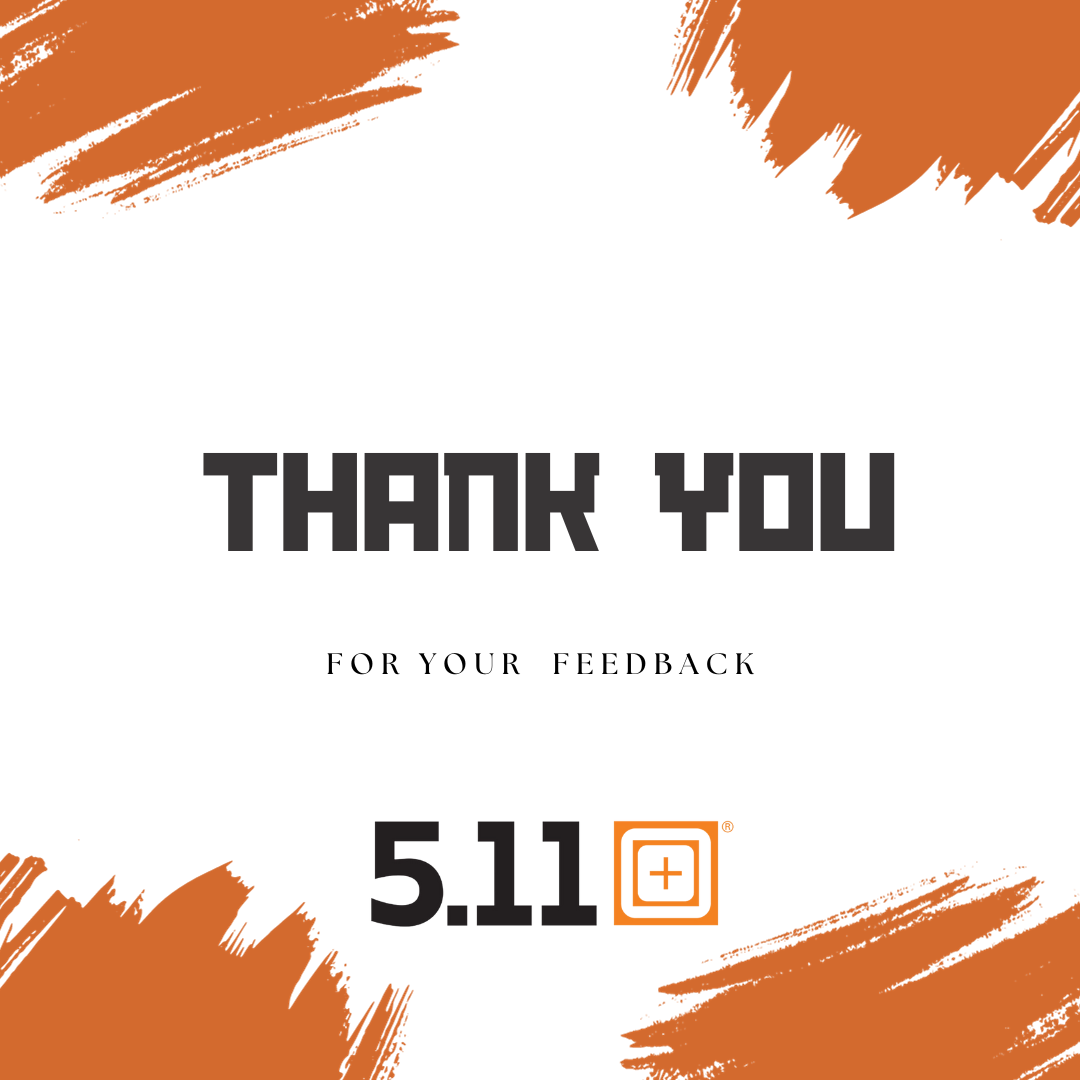
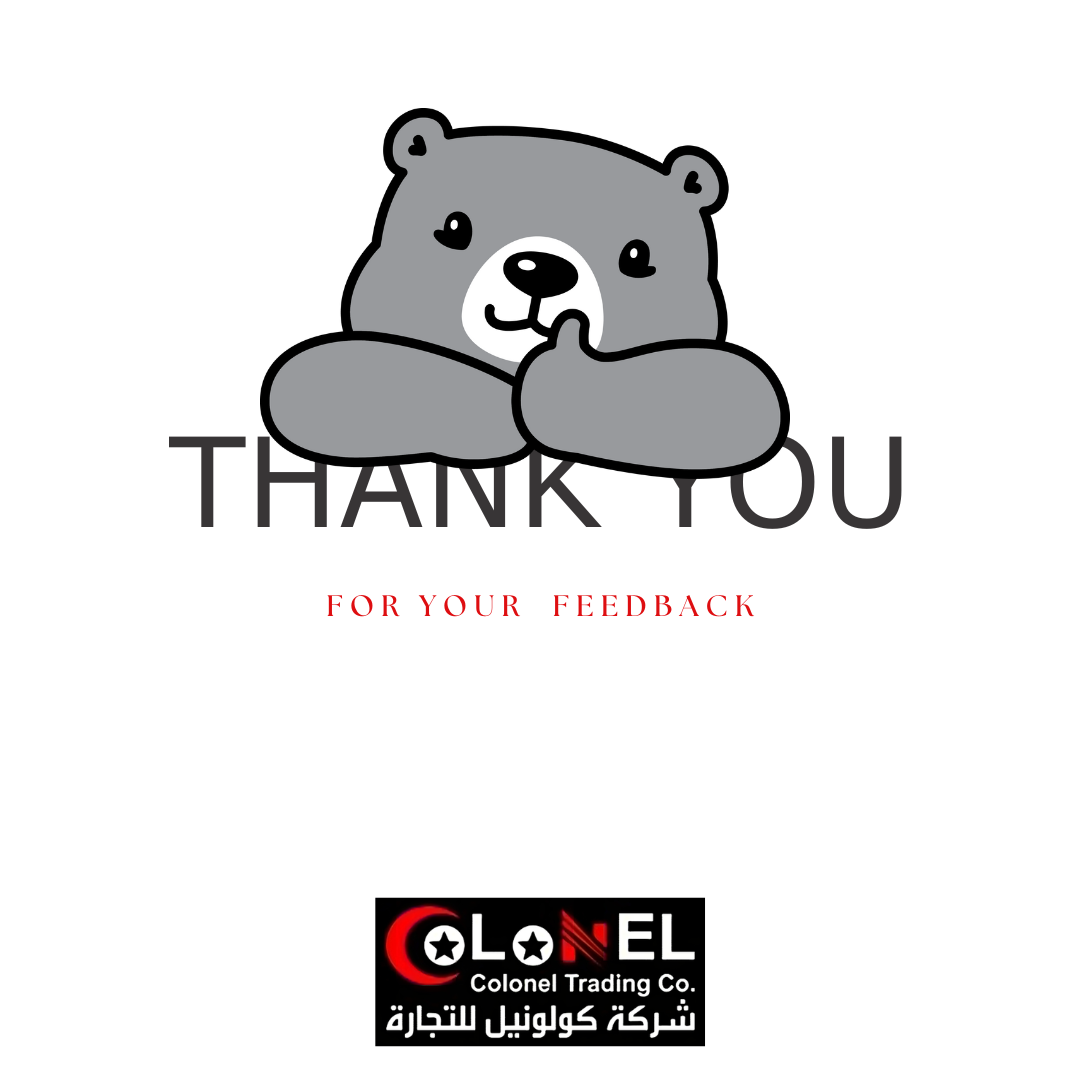
Tester for Subscribe and Survery form
Tester for Subscribe and Survery form

diff --git a/Survey Form/index.html b/Survey Form/index.html
@@ -1,5 +1,6 @@
 <!DOCTYPE html>
 <html lang="en">
+
 <head>
     <meta charset="UTF-8">
     <meta http-equiv="X-UA-Compatible" content="IE-edge">
@@ -8,21 +9,25 @@
     <title>Customer Service Survey</title>
     <link rel="icon" type="image/x-icon" href="img/favicon.ico">
     <script src="https://ajax.googleapis.com/ajax/libs/jquery/3.7.1/jquery.min.js"></script>
-    <link href="https://cdn.jsdelivr.net/npm/bootstrap@5.3.2/dist/css/bootstrap.min.css" rel="stylesheet" integrity="sha384-T3c6CoIi6uLrA9TneNEoa7RxnatzjcDSCmG1MXxSR1GAsXEV/Dwwykc2MPK8M2HN" crossorigin="anonymous">
-    <script src="https://cdn.jsdelivr.net/npm/bootstrap@5.3.2/dist/js/bootstrap.bundle.min.js" integrity="sha384-C6RzsynM9kWDrMNeT87bh95OGNyZPhcTNXj1NW7RuBCsyN/o0jlpcV8Qyq46cDfL" crossorigin="anonymous"></script>
+    <link href="https://cdn.jsdelivr.net/npm/bootstrap@5.3.2/dist/css/bootstrap.min.css" rel="stylesheet"
+        integrity="sha384-T3c6CoIi6uLrA9TneNEoa7RxnatzjcDSCmG1MXxSR1GAsXEV/Dwwykc2MPK8M2HN" crossorigin="anonymous">
+    <script src="https://cdn.jsdelivr.net/npm/bootstrap@5.3.2/dist/js/bootstrap.bundle.min.js"
+        integrity="sha384-C6RzsynM9kWDrMNeT87bh95OGNyZPhcTNXj1NW7RuBCsyN/o0jlpcV8Qyq46cDfL"
+        crossorigin="anonymous"></script>
 </head>
+
 <body>
     <div class="survey">
-        <img src="img/Banner.jpg" class="img-fluid" alt="banner">
+        <img src="img/Colonel.png" class="img-fluid" alt="banner">
         <h1 class="form-header">Customer Service Survey</h1>
 
         <!--Registration Section-->
-        <div id="registration-section"> 
-            <p>Greetings from the 5.11 Tactical Series! We are continuously looking for ways in which we can improve our
+        <div id="registration-section">
+            <p>Greetings from <b>Colonel Trading Co!</b> We are continuously looking for ways in which we can improve our
                 products and the services we provide to our valued customers.</p>
             <p>We would appreciate it if you could share your thoughts by answering a few questions as part of our quick
                 survey. </p>
-             
+
             <form name="submit-to-google-sheet" id="registration-form">
                 <div class="form-group">
                     <label for="Name">Full Name<span class="form-req">*</span></label>
@@ -41,7 +46,7 @@
 
                 <div class="d-grid gap-2">
                     <button class="btn btn-primary" id="start-survey-btn" type="button">Start Survey</button>
-                </div>            
+                </div>
         </div>
 
         <!-- End Registration Section-->
@@ -49,92 +54,99 @@
         <!--Start of Survey Section-->
 
         <div id="survey-section" style="display: none;">
-                <div class="form-group">
-                    <label>1. How satisfied are you with your interaction with our sales staff?</label>
-                    <div class="radio-group">
-                        <input type="radio" name="ISS" id="ISS_Dissatisfied" value="Dissatisfied">
-                        <label for="ISS_Dissatisfied">Dissatisfied</label>
-                        <input type="text" name="ISS_Comment" class='txb_iss' hidden="true" placeholder="Enter your comment here" ></input>
-                    </div>
-                    <div class="radio-group">
-                        <input type="radio" name="ISS" id="ISS_Satisfied" value="Satisfied" required>
-                        <label for="ISS_Satisfied">Satisfied</label>
-                    </div>
-                    <div class="radio-group">
-                        <input type="radio" name="ISS" id="ISS_VerySatisfied" value="Very Satisfied" required>
-                        <label for="ISS_VerySatisfied">Very Satisfied</label>
-                    </div>
+            <div class="form-group">
+                <label>1. How satisfied are you with your interaction with our sales staff?</label>
+                <div class="radio-group">
+                    <input type="radio" name="ISS" id="ISS_Dissatisfied" value="Dissatisfied">
+                    <label for="ISS_Dissatisfied">Dissatisfied</label>
+                    <input type="text" name="ISS_Comment" class='txb_iss' hidden="true"
+                        placeholder="Enter your comment here"></input>
                 </div>
+                <div class="radio-group">
+                    <input type="radio" name="ISS" id="ISS_Satisfied" value="Satisfied" required>
+                    <label for="ISS_Satisfied">Satisfied</label>
+                </div>
+                <div class="radio-group">
+                    <input type="radio" name="ISS" id="ISS_VerySatisfied" value="Very Satisfied" required>
+                    <label for="ISS_VerySatisfied">Very Satisfied</label>
+                </div>
+            </div>
 
-                <div class="form-group">
-                    <label>2. How easy was it to process and release your items?</label>
-                    <div class="radio-group">
-                        <input type="radio" name="PRI" id="PRI_Dissatisfied" value="Dissatisfied">
-                        <label for="PRI_Dissatisfied">Dissatisfied</label>
-                        <input type="text" name="PRI_Comment" class='txb_pri' hidden="true" placeholder="Enter your comment here" />
-                    </div>
-                    <div class="radio-group">
-                        <input type="radio" name="PRI" id="PRI_Satisfied" value="Satisfied" required>
-                        <label for="PRI_Satisfied">Satisfied</label>
-                    </div>
-                    <div class="radio-group">
-                        <input type="radio" name="PRI" id="PRI_VerySatisfied" value="Very Satisfied" required>
-                        <label for="PRI_VerySatisfied">Very Satisfied</label>
-                    </div>
+            <div class="form-group">
+                <label>2. How easy was it to process and release your items?</label>
+                <div class="radio-group">
+                    <input type="radio" name="PRI" id="PRI_Dissatisfied" value="Dissatisfied">
+                    <label for="PRI_Dissatisfied">Dissatisfied</label>
+                    <input type="text" name="PRI_Comment" class='txb_pri' hidden="true"
+                        placeholder="Enter your comment here" />
                 </div>
+                <div class="radio-group">
+                    <input type="radio" name="PRI" id="PRI_Satisfied" value="Satisfied" required>
+                    <label for="PRI_Satisfied">Satisfied</label>
+                </div>
+                <div class="radio-group">
+                    <input type="radio" name="PRI" id="PRI_VerySatisfied" value="Very Satisfied" required>
+                    <label for="PRI_VerySatisfied">Very Satisfied</label>
+                </div>
+            </div>
 
-                <div class="form-group">
-                    <label>3. How was your experience using our product?</label>
-                    <div class="radio-group">
-                        <input type="radio" name="EP" id="EP_Dissatisfied" value="Dissatisfied" required>
-                        <label for="EP_Dissatisfied">Dissatisfied</label>
-                        <input type="text" name="EP_Comment" class='txb_ep' hidden="true" placeholder="Enter your comment here" />
-                    </div>
-                    <div class="radio-group">
-                        <input type="radio" name="EP" id="EP_Satisfied" value="Satisfied" required>
-                        <label for="EP_Satisfied">Satisfied</label>
-                    </div>
-                    <div class="radio-group">
-                        <input type="radio" name="EP" id="EP_VerySatisfied" value="Very Satisfied" required>
-                        <label for="EP_VerySatisfied">Very Satisfied</label>
-                    </div>
+            <div class="form-group">
+                <label>3. How was your experience using our product?</label>
+                <div class="radio-group">
+                    <input type="radio" name="EP" id="EP_Dissatisfied" value="Dissatisfied" required>
+                    <label for="EP_Dissatisfied">Dissatisfied</label>
+                    <input type="text" name="EP_Comment" class='txb_ep' hidden="true"
+                        placeholder="Enter your comment here" />
                 </div>
+                <div class="radio-group">
+                    <input type="radio" name="EP" id="EP_Satisfied" value="Satisfied" required>
+                    <label for="EP_Satisfied">Satisfied</label>
+                </div>
+                <div class="radio-group">
+                    <input type="radio" name="EP" id="EP_VerySatisfied" value="Very Satisfied" required>
+                    <label for="EP_VerySatisfied">Very Satisfied</label>
+                </div>
+            </div>
 
-                <div class="form-group">
-                    <label for="CSR">4. Was the customer service representative knowledgeable and helpful?</label>
-                    <div class="radio-group">
-                        <input type="radio" name="CSR" id="CSR_Yes" value="Yes" required>
-                        <label for="CSR_Yes">Yes</label>
-                    </div>
-                    <div class="radio-group">
-                        <input type="radio" name="CSR" id="CSR_No" value="No" required>
-                        <label for="CSR_No">No</label>
-                    </div>
+            <div class="form-group">
+                <label for="CSR">4. Was the customer service representative knowledgeable and helpful?</label>
+                <div class="radio-group">
+                    <input type="radio" name="CSR" id="CSR_Yes" value="Yes" required>
+                    <label for="CSR_Yes">Yes</label>
                 </div>
+                <div class="radio-group">
+                    <input type="radio" name="CSR" id="CSR_No" value="No" required>
+                    <label for="CSR_No">No</label>
+                    <input type="text" name="CSR_Comment" class='txb_csr' hidden="true"
+                        placeholder="Enter your comment here" />
 
-                <div class="form-group">
-                    <label for="CSEO">5. What suggestions do you have for improving our customer service experience overall?
-                    </label>
-                    <textarea name="CSEO" id="CSEO" placeholder="Enter your suggestions here"></textarea>
                 </div>
+            </div>
 
-                <div class="form-group">
-                    <button type="button" id="preview-btn" class="btn btn-secondary btn-sm">Preview</button>
-                    <button type="submit" id="submit-btn" name="submit" class="btn btn-primary btn-sm">Submit</button>
-                    <span class="form-note">Click here to Submit</span>
-                </div>
-                
+            <div class="form-group">
+                <label for="CSEO">5. What suggestions do you have for improving our customer service experience overall?
+                </label>
+                <textarea name="CSEO" id="CSEO" placeholder="Enter your suggestions here"></textarea>
+            </div>
+
+            <div class="form-group">
+                <button type="button" id="preview-btn" class="btn btn-secondary btn-sm">Preview</button>
+                <button type="submit" id="submit-btn" name="submit" class="btn btn-primary btn-sm">Submit</button>
+                <span class="form-note">Click here to Submit</span>
+            </div>
+
         </div>
 
         <!--End of Survery Section-->
     </div>
-</form>
+    </form>
 
-<!--Full Servey Section-->
+    <!--Full Servey Section-->
     <script src="js/preview.js"></script> <!--Preview-->
     <script src="js/txtboxhider.js"></script> <!--Dissatisfied Box Hider-->
     <script src="js/regvalidation.js"></script> <!--Survey Section Validation-->
     <script src="js/script.js"></script>
     <script src="js/commentval.js"></script> <!--Comment Required-->
 </body>
+
 </html>

diff --git a/Survey Form/js/commentval.js b/Survey Form/js/commentval.js
@@ -1,8 +1,8 @@
 $(document).ready(function() {
     // Function to show/hide comment fields based on radio button selection
-    function toggleCommentField(radioId, commentFieldId) {
+    function toggleCommentField(radioId, commentFieldId, showOnValue) {
         $(radioId).change(function() {
-            if ($(this).val() === 'Dissatisfied') {
+            if ($(this).val() === showOnValue) {
                 $(commentFieldId).prop('required', true).show();
             } else {
                 $(commentFieldId).prop('required', false).hide();
@@ -10,7 +10,8 @@ $(document).ready(function() {
         });
     }
 
-    toggleCommentField("#ISS_Dissatisfied", "[name='ISS_Comment']");
-    toggleCommentField("#PRI_Dissatisfied", "[name='PRI_Comment']");
-    toggleCommentField("#EP_Dissatisfied", "[name='EP_Comment']");
+    toggleCommentField("#ISS_Dissatisfied", "[name='ISS_Comment']", 'Dissatisfied');
+    toggleCommentField("#PRI_Dissatisfied", "[name='PRI_Comment']", 'Dissatisfied');
+    toggleCommentField("#EP_Dissatisfied", "[name='EP_Comment']", 'Dissatisfied');
+    toggleCommentField("#CSR_No", "[name='CSR_Comment']", 'No');
 });

diff --git a/subscribe/js/sheet.js b/subscribe/js/sheet.js
@@ -3,14 +3,22 @@ const form = document.forms['submit-to-google-sheet']
 const msg =document.getElementById("msg")
 
 form.addEventListener('submit', e => {
-  e.preventDefault()
-  fetch(scriptURL, { method: 'POST', body: new FormData(form)})
-    .then(response => {
-        msg.innerHTML = "Thank you for Subscribing!"
-        setTimeout(function(){
-            msg.innerHTML = ""
-        },5000)
-        form.reset()
-    })
-    .catch(error => console.error('Error!', error.message))
-})
+    e.preventDefault();
+  
+    // Display a confirmation dialog
+    if (confirm("Are you sure you want to subscribe?")) {
+      fetch(scriptURL, { method: 'POST', body: new FormData(form) })
+        .then(response => {
+          msg.innerHTML = "Thank you for Subscribing!";
+          setTimeout(function () {
+            msg.innerHTML = "";
+          }, 5000);
+          form.reset();
+        })
+        .catch(error => console.error('Error!', error.message));
+    } else {
+      // If the user cancels the subscription, do nothing or provide feedback
+      console.log("Subscription canceled.");
+    }
+  });
+  

diff --git a/Survey Form/js/script.js b/Survey Form/js/script.js
@@ -3,12 +3,14 @@ const form = document.forms['submit-to-google-sheet']
 
 form.addEventListener('submit', e => {
   e.preventDefault()
-  fetch(scriptURL, { method: 'POST', body: new FormData(form)})
-    .then(response => {
-        form.reset()
-        alert('Thank you for taking the time to give us your feedback. ')
-        window.location.href = 'thankyou.html';
+  
+  if (confirm("Do you want to submit your form?")) {
+    fetch(scriptURL, { method: 'POST', body: new FormData(form) })
+        .then(response => {
+            // Show an alert instead of updating the span
+            window.location.href = 'thankyou.html';
+        })
+        .catch(error => console.error('Error!', error.message));
+  } 
 
-    })
-    .catch(error => console.error('Error!', error.message))
-})
+});

diff --git a/Survey Form/js/txtboxhider.js b/Survey Form/js/txtboxhider.js
@@ -28,4 +28,10 @@ $(function () {
     $('#EP_VerySatisfied').click(function () {
         $('.txb_ep').attr('hidden', true);
     });
+    $('#CSR_Yes').click(function () {
+        $('.txb_csr').attr('hidden', true);
+    });
+    $('#CSR_No').click(function () {
+        $('.txb_csr').attr('hidden', false);
+    });
 });

diff --git a/Survey Form/style.css b/Survey Form/style.css
@@ -77,6 +77,7 @@ textarea, .form-group input[type="text"], .form-group input[type="number"]{
 
 .form-note{
     text-align: center;
+    color: red;
 }
 
 .img-fluid{
